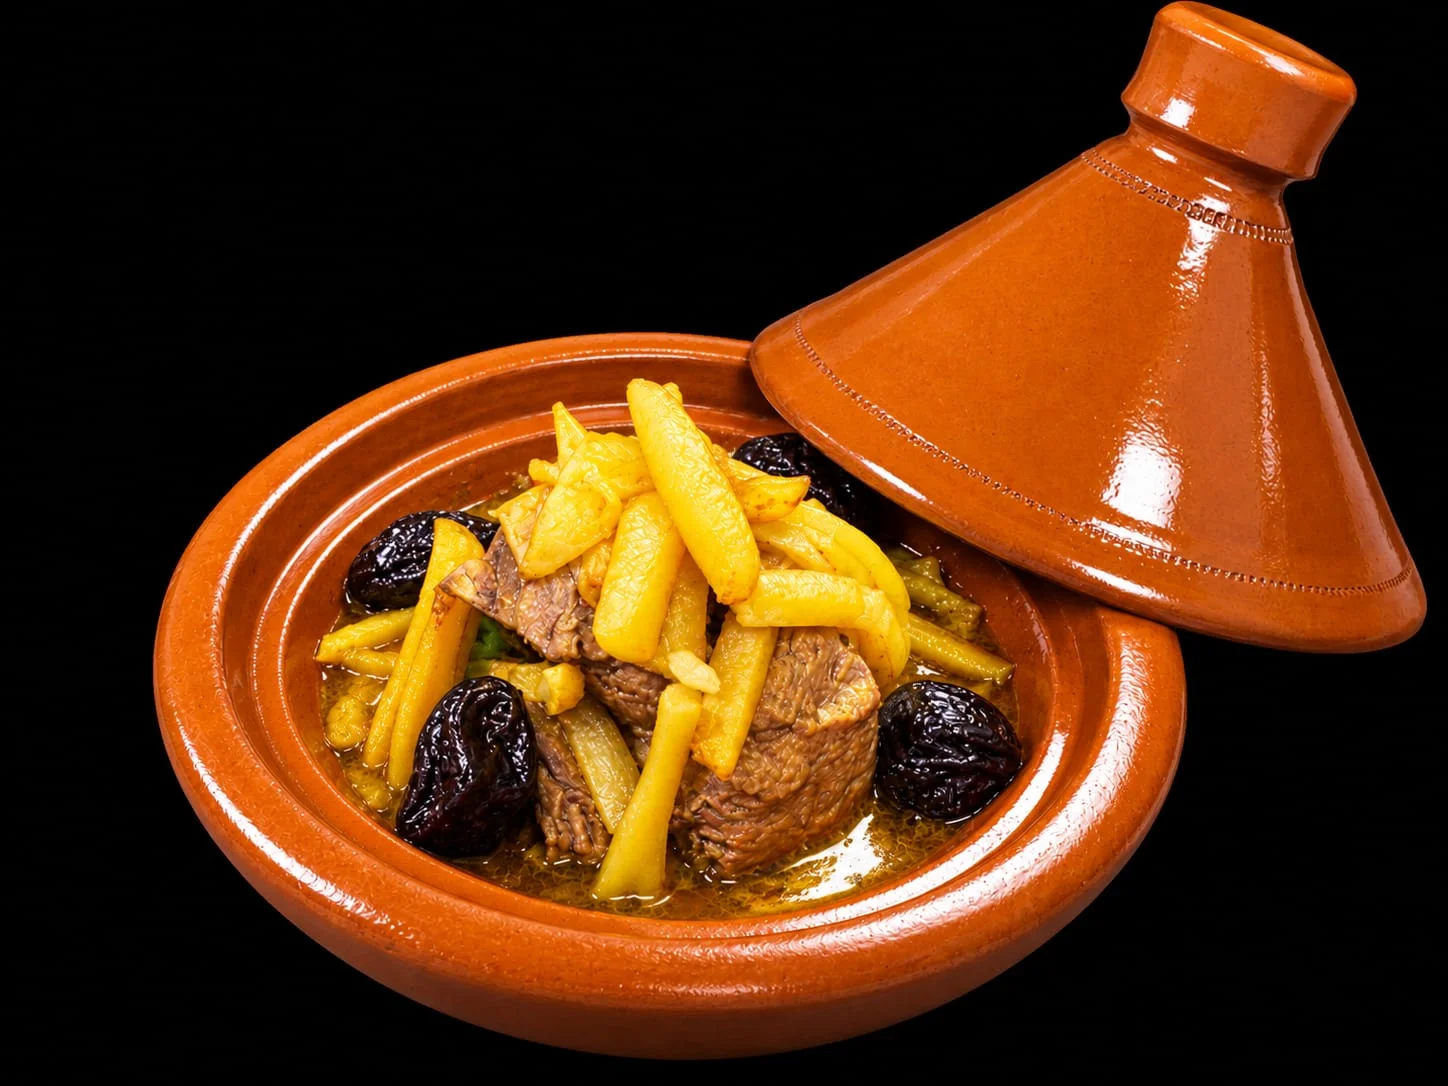
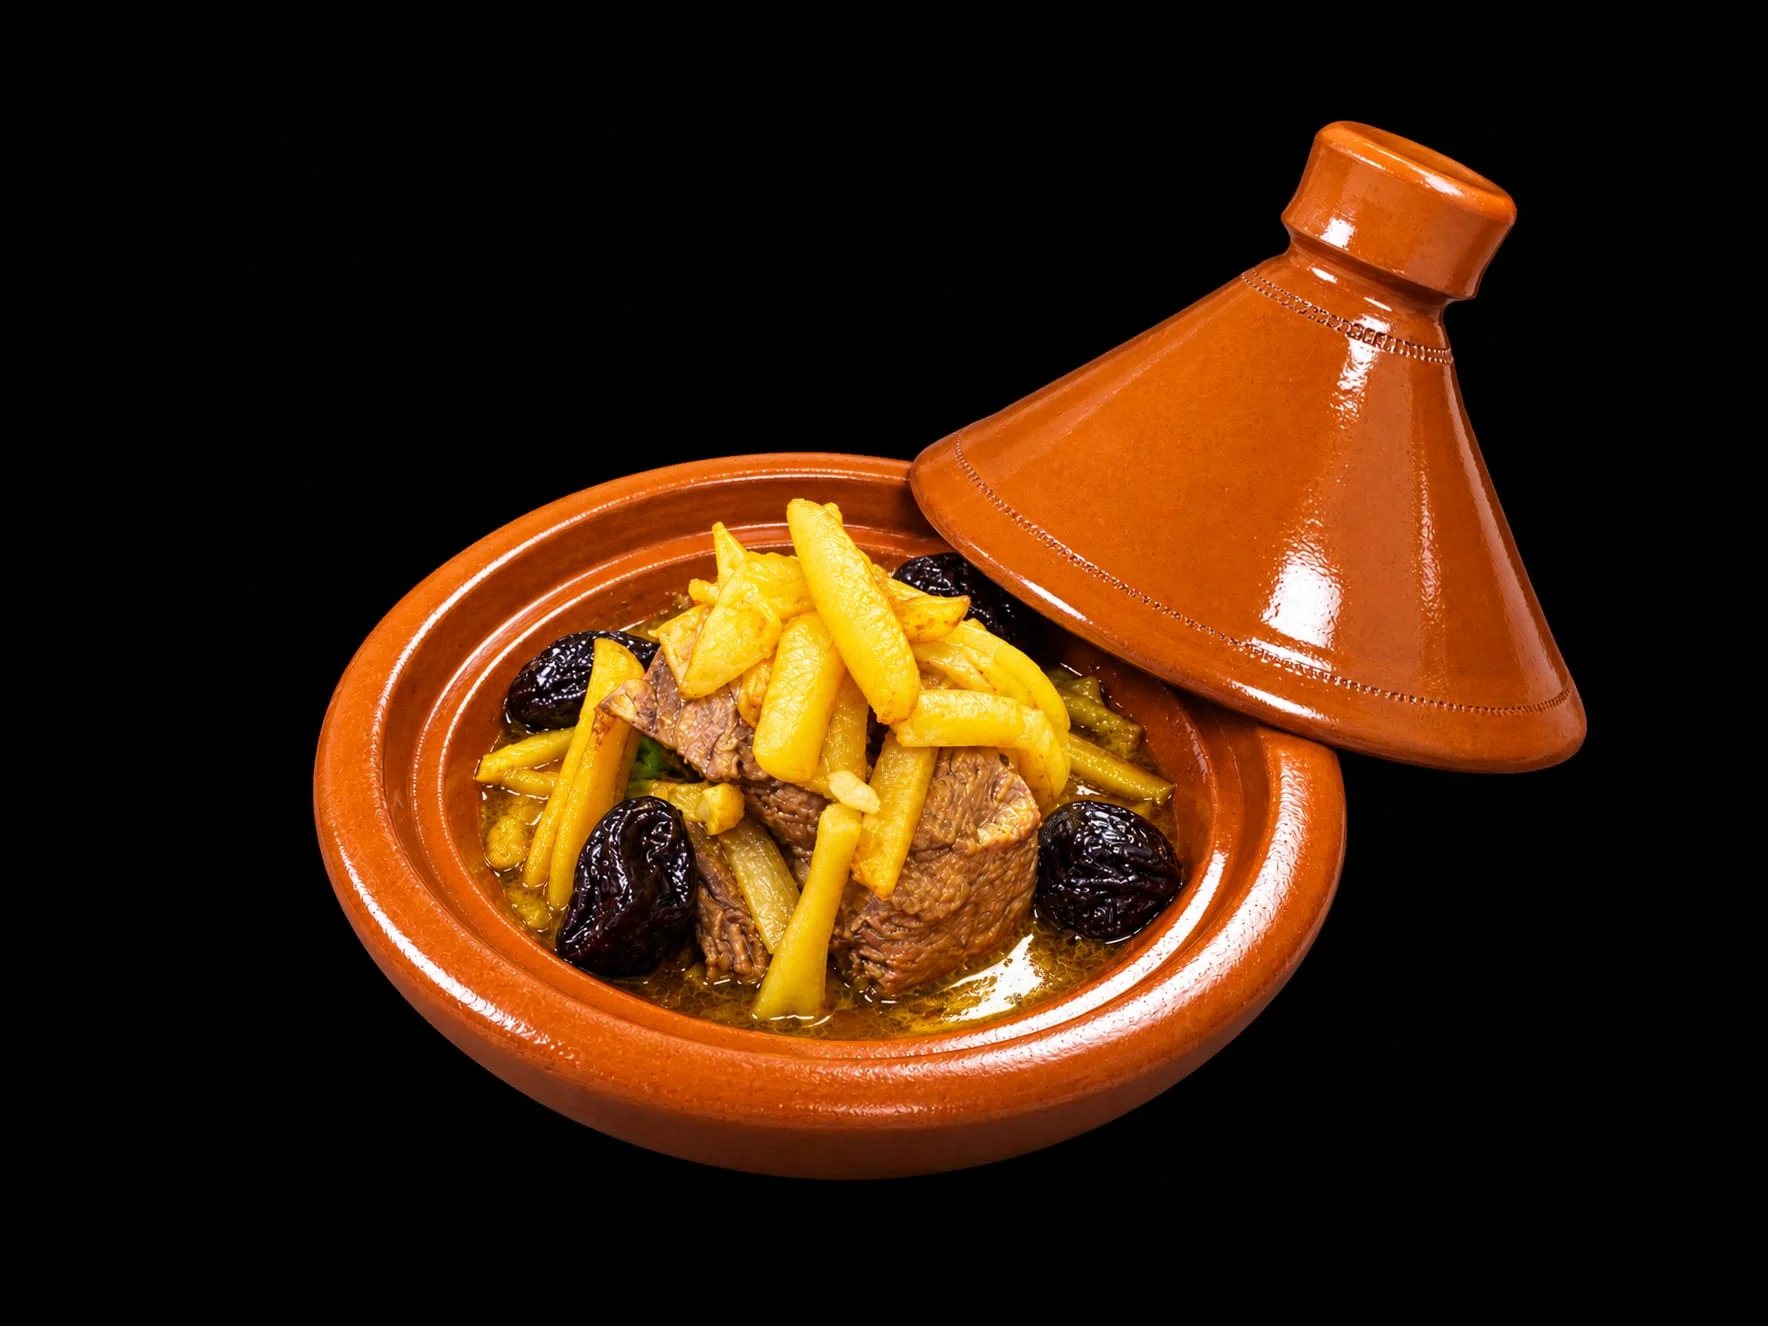
Show three Google reviews and the whole tajine in the hero
- add the three Google reviews (Nouralhadi Ifrak, Zakaria Kebir, Rouchdi
  Fakir); a review without text shows a short 'no comment' line
- review dates are per language
- hero photo padded with black and faded only at the edges, so the lid
  knob is no longer cut off

Claude-Session: https://claude.ai/code/session_01SE5z3ZGnZ59HrGsBakv1vL

diff --git a/index.html b/index.html
@@ -257,9 +257,11 @@ section { position: relative; padding: clamp(72px, 10vw, 128px) 0; }
   width: 100%; height: auto; aspect-ratio: 4 / 3; object-fit: cover;
   /* the photo has a black background: screen-blend it into the hero and feather the edges */
   mix-blend-mode: screen;
-  -webkit-mask-image: radial-gradient(closest-side, #000 70%, transparent 100%);
-  mask-image: radial-gradient(closest-side, #000 70%, transparent 100%);
-  transform: scale(1.04);
+  /* light edge fade only: the photo is padded with black so the whole tajine (lid knob included) stays visible */
+  -webkit-mask-image: linear-gradient(to right, transparent, #000 6%, #000 94%, transparent), linear-gradient(to bottom, transparent, #000 6%, #000 94%, transparent);
+  -webkit-mask-composite: source-in;
+  mask-image: linear-gradient(to right, transparent, #000 6%, #000 94%, transparent), linear-gradient(to bottom, transparent, #000 6%, #000 94%, transparent);
+  mask-composite: intersect;
 }
 .hero-media .tea {
   position: absolute; left: 6%; bottom: 8%; z-index: 3; display: flex; align-items: center; gap: .7em;
@@ -282,7 +284,6 @@ section { position: relative; padding: clamp(72px, 10vw, 128px) 0; }
   .hero .lead { margin-inline: auto; }
   .hero-cta { justify-content: center; }
   .hero-media { margin: 0 -16px; order: -1; }
-  .hero-media .hero-dish { transform: scale(1.08); }
   .hero-media .tea { left: 50%; bottom: -6px; transform: translateX(-50%); animation: none; white-space: nowrap; font-size: .9rem; }
   .hero-media { margin-bottom: 26px; }
   .lantern { display: none; }
@@ -401,6 +402,7 @@ section { position: relative; padding: clamp(72px, 10vw, 128px) 0; }
 }
 .review::before { content: "\201C"; position: absolute; top: -6px; right: 18px; font-family: var(--font-display); font-size: 5rem; line-height: 1; color: var(--gold); opacity: .35; }
 .review blockquote { margin: 0; font-size: 1.05rem; line-height: 1.55; flex: 1; }
+.review .stars-only { margin: 0; flex: 1; color: var(--ink-soft); font-style: italic; }
 .review figcaption { display: flex; align-items: center; gap: 12px; font-size: .95rem; }
 .review .avatar { width: 40px; height: 40px; flex: none; border-radius: 50%; display: grid; place-items: center; font-family: var(--font-display); font-weight: 700; color: #fff5e2; background: linear-gradient(140deg, var(--red), var(--green)); }
 .review figcaption strong { display: block; font-family: var(--font-kufi); font-weight: 600; letter-spacing: .04em; }
@@ -603,7 +605,7 @@ footer small { color: var(--ink-soft); font-size: .85rem; }
         <div class="status reveal" style="--d:.5s" id="status" role="status"><i></i><span id="statusText">Ouvert 7j/7 · 07:00 – 00:00</span></div>
       </div>
       <div class="hero-media reveal" style="--d:.15s">
-        <img class="hero-dish" src="assets/img/hero-tajine.webp" alt="Tajine de bœuf aux pruneaux" width="1448" height="1086" fetchpriority="high">
+        <img class="hero-dish" src="assets/img/hero-tajine.webp" alt="Tajine de bœuf aux pruneaux" width="1768" height="1326" fetchpriority="high">
         <div class="tea"><svg><use href="#i-tea"/></svg><div><strong data-i18n="tea.title">Thé offert</strong><span data-i18n="tea.text">avec chaque tajine</span></div></div>
       </div>
     </div>
@@ -781,7 +783,13 @@ footer small { color: var(--ink-soft); font-size: .85rem; }
   /* Google rating shown above the reviews, e.g. { score: 4.8, count: 57 }. Hidden while null. */
   var RATING = null;
   /* Reviews copied from Google: { name, stars (1-5), date, text }. The section shows only the buttons while empty. */
-  var REVIEWS = [];
+  var REVIEWS = [
+    { name: 'Nouralhadi Ifrak', stars: 5, date: { fr: 'Septembre 2026', en: 'September 2026' },
+      text: 'Cuisine marocaine authentique et produits de qualité. Le Tajine est excellent et le thé à la menthe parfait pour finir le repas. Service rapide et personnel très agréable. Une valeur sûre 👏👏.' },
+    { name: 'Zakaria Kebir', stars: 5, date: { fr: 'Septembre 2026', en: 'September 2026' },
+      text: 'Très bonne découverte. Je recommande vivement.' },
+    { name: 'Rouchdi Fakir', stars: 5, date: { fr: 'Septembre 2026', en: 'September 2026' }, text: '' }
+  ];
   var root = document.documentElement;
 
   /* ------------------------------------------------ translations */
@@ -813,7 +821,7 @@ footer small { color: var(--ink-soft); font-size: .85rem; }
       'wa.quick': 'Bonjour Saveurs du Maroc ! Je souhaite réserver une table.',
       'kids': 'Menu Enfant', 'student': 'Menu Étudiant',
       'rev.eyebrow': 'Avis clients', 'rev.title1': 'Ils ont goûté,', 'rev.title2': 'ils en parlent',
-      'rev.google': 'Nos avis Google', 'rev.ig': 'Suivez-nous sur Instagram', 'rev.count': 'avis Google'
+      'rev.google': 'Nos avis Google', 'rev.ig': 'Suivez-nous sur Instagram', 'rev.count': 'avis Google', 'rev.starsOnly': 'Note laissée sur Google, sans commentaire.'
     },
     en: {
       'nav.dishes': 'Specialities', 'nav.menu': 'Menu', 'nav.book': 'Book', 'nav.info': 'Find us',
@@ -842,7 +850,7 @@ footer small { color: var(--ink-soft); font-size: .85rem; }
       'wa.quick': 'Hello Saveurs du Maroc! I would like to book a table.',
       'kids': 'Kids Menu', 'student': 'Student Menu',
       'rev.eyebrow': 'Guest reviews', 'rev.title1': 'They tasted,', 'rev.title2': 'they tell',
-      'rev.google': 'Our Google reviews', 'rev.ig': 'Follow us on Instagram', 'rev.count': 'Google reviews'
+      'rev.google': 'Our Google reviews', 'rev.ig': 'Follow us on Instagram', 'rev.count': 'Google reviews', 'rev.starsOnly': 'Rated on Google, no written comment.'
     }
   };
 
@@ -920,8 +928,8 @@ footer small { color: var(--ink-soft); font-size: .85rem; }
     }
     document.getElementById('reviews').innerHTML = REVIEWS.map(function (v, i) {
       return '<figure class="review reveal" style="--d:' + ((i % 3) * 0.1) + 's">' + stars(v.stars) +
-        '<blockquote>' + esc(v.text) + '</blockquote>' +
-        '<figcaption><span class="avatar">' + esc(v.name.charAt(0).toUpperCase()) + '</span><div><strong>' + esc(v.name) + '</strong><span>' + esc(v.date || '') + '</span></div>' +
+        (v.text ? '<blockquote>' + esc(v.text) + '</blockquote>' : '<p class="stars-only">' + esc(t('rev.starsOnly')) + '</p>') +
+        '<figcaption><span class="avatar">' + esc(v.name.charAt(0).toUpperCase()) + '</span><div><strong>' + esc(v.name) + '</strong><span>' + esc((v.date && v.date[lang]) || v.date || '') + '</span></div>' +
         '<svg class="g" aria-label="Google"><use href="#i-google"/></svg></figcaption></figure>';
     }).join('');
   }
